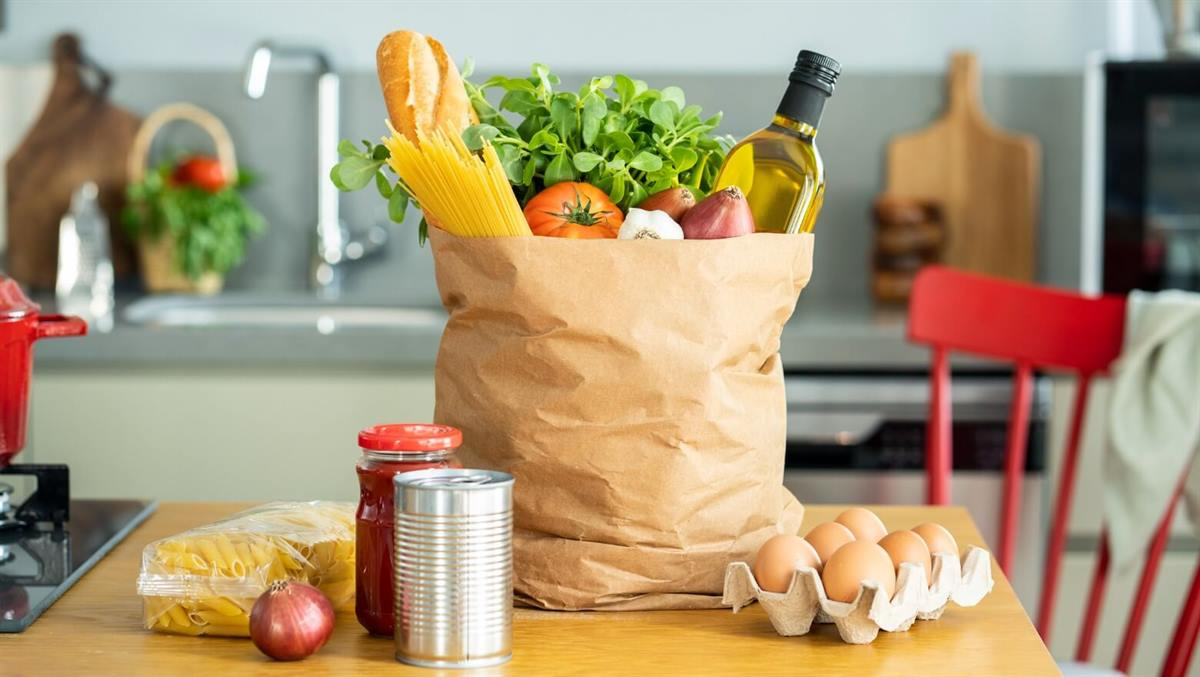
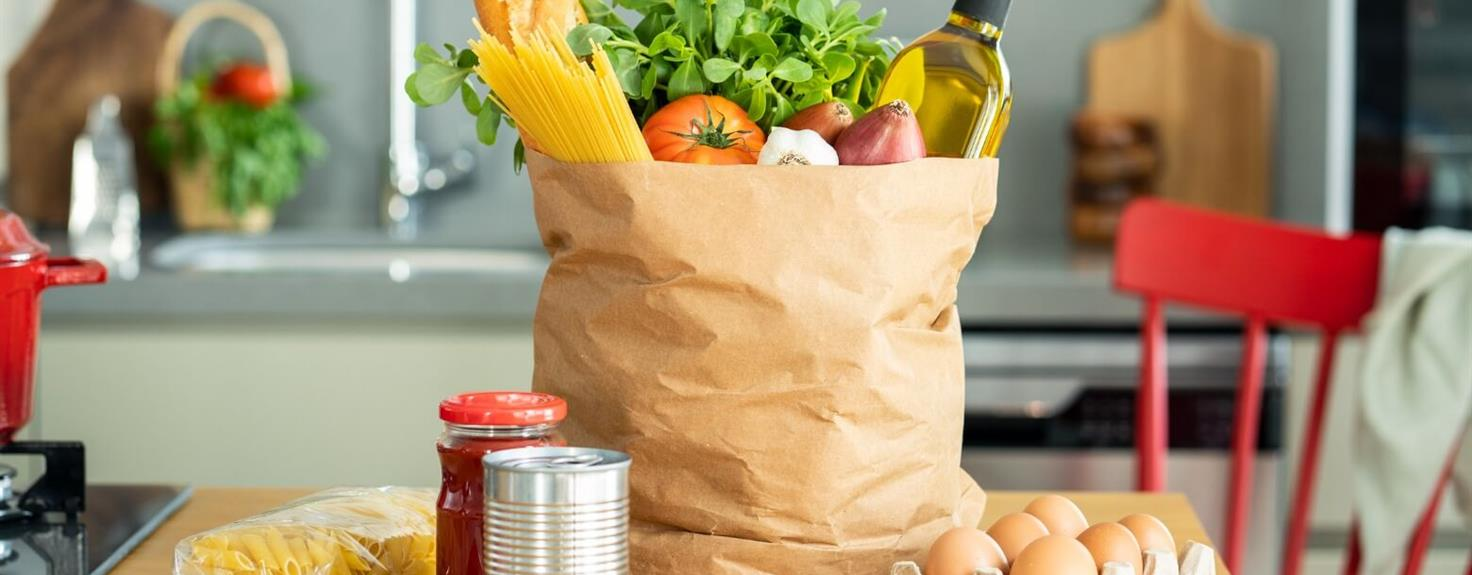
fix(welcome): black browse tiles, and art cropped to the slot it lands in
THE BLACK TILES

20260919000000 set ui_order_index 1..9 on the nine categories it gave art
to, and claimed the column sorts nulls last so those nine would lead. It
does not. The column is ZERO on existing rows, not null, so the curated
nine sorted BEHIND the sixteen untouched ones and the mosaic rendered
bakery-cakes, barbering, birthday-parties and the rest -- none of which had
an image_url. Nine ink-block fallbacks. Nothing errored; the ordering was
simply wrong and the fallback did exactly its job.

Fixed in the data (20260920010000 clears the zeros to 100 and sets a real
1..14) and guaranteed in the frontend, which now sorts categories that HAVE
art ahead of those that do not. Either alone would have worked; relying on
the index alone is what failed.

CROPPED AT SOURCE, NOT BY object-cover

Every slot is landscape -- span 2 is 1.25, span 4 is 2.56, span 6 is 3.48 --
so a portrait cannot be rescued by making tiles taller. The band was 5.35
until now, which no photograph is; a portrait in it kept 12% of its frame.
Tiles are taller (h-72 / h-80) and every file is cropped to its slot's exact
ratio before it is downloaded.

That one change fixes two problems that had a single cause: a 3:2 photo in
the band had 87% of it discarded by CSS, so the bytes went on pixels nobody
saw while the visible strip stretched 1200px of data across 2224. Blurry and
wasteful together. Unsplash's crop=entropy also finds the subject -- the
[…]

diff --git a/src/app/types/occasions.ts b/src/app/types/occasions.ts
@@ -163,10 +163,21 @@ export const OCCASION_TILES: ReadonlyArray<OccasionTile> = [
 /**
  * Art, keyed by kind, cover first. **All thirteen are covered.**
  *
- * A kind with two or more frames breathes: the Conductor fades between them
- * on the shared page clock. A kind with one simply does not move, which is a
- * normal state and needs no apology -- four of them have a second frame and
- * the rest are waiting on art, not on code.
+ * EVERY FILE IS CROPPED AT SOURCE TO THE SHAPE OF THE SLOT IT LANDS IN.
+ * The groupings below are those three shapes, and they line up with the span
+ * this tile's index draws from the mosaic pattern -- see SLOT_ASPECT in
+ * TileMosaic. That is the whole fix for two problems at once:
+ *
+ *   Before, a roughly 3:2 photograph was dropped into a 5.35:1 band and
+ *   `object-cover` threw away 87% of it. The bytes were spent on pixels
+ *   nobody ever saw, and the strip that DID show had ~1200px of real data
+ *   stretched across 2224 -- so it was blurry and wasteful from one cause.
+ *   Cropping at source fixes both, and the band is now 3.48 rather than
+ *   5.35 because the tiles were made taller at the same time.
+ *
+ * A kind with two or more frames breathes; the Conductor fades between them
+ * on the shared page clock at a 30s dwell. One frame simply does not move,
+ * which is a normal state and needs no apology.
  *
  * Four reuse the category photographs, because the occasion and the shelf
  * genuinely share a subject: a Pharmacy Run and the pharmacy shelf are the
@@ -187,31 +198,22 @@ export const OCCASION_TILES: ReadonlyArray<OccasionTile> = [
  * School Prep, and West African ceremonial dress for a Zambian wedding.
  */
 export const OCCASION_ART: Partial<Record<OccasionKind, string[]>> = {
-  // Shared with the category mosaic -- same subject, same photograph.
-  groceries: ['/categories/groceries.jpg', '/categories/groceries-2.jpg'],
-  medical: ['/categories/pharmacy.jpg'],
-  rent: ['/categories/home-appliances.jpg'],
-  holiday: ['/categories/meat-poultry.jpg'],
+  // wide (2.56) -- span 4
+  groceries: ['/categories/groceries.jpg', '/occasions/groceries-2.webp'],
+  medical: ['/categories/pharmacy.webp'],
+  memorial: ['/occasions/funeral.webp', '/occasions/funeral-2.webp'],
+  holiday: ['/categories/meat-poultry.webp'],
+  graduation: ['/occasions/graduation.webp'],
 
-  // From the design scaffolding.
+  // near square (1.25) -- span 2
+  birthday: ['/occasions/birthday.webp'],
+  school_fees: ['/occasions/school-prep.webp', '/occasions/school-prep-2.webp'],
   upkeep: ['/occasions/upkeep.jpg'],
+  new_baby: ['/occasions/new-baby.webp', '/occasions/new-baby-2.webp'],
   anniversary: ['/occasions/anniversary.jpg'],
 
-  // Sourced 2026-09-20.
-  birthday: ['/occasions/birthday.jpg'],
-  school_fees: ['/occasions/school-prep.jpg', '/occasions/school-prep-2.jpg'],
-  new_baby: ['/occasions/new-baby.jpg', '/occasions/new-baby-2.jpg'],
-  wedding: ['/occasions/wedding.jpg'],
-  graduation: ['/occasions/graduation.jpg'],
-
-  // White lilies, then a white chrysanthemum. Was the catering photograph --
-  // a restaurant full of people eating is what the kappa says a funeral BUYS,
-  // and it is exactly the wrong thing to put under the word. The basket is
-  // food; the picture is not.
-  memorial: ['/occasions/funeral.jpg', '/occasions/funeral-2.jpg'],
-
-  // An open-air market stall. The tile says "we will go and find it", and this
-  // is where that happens -- deliberately not a headset or a call centre,
-  // which is the thing this product is promising people it is not.
-  other: ['/occasions/something-else.jpg'],
+  // cinematic band (3.48) -- span 6
+  rent: ['/categories/home-appliances.webp'],
+  wedding: ['/occasions/wedding.webp'],
+  other: ['/occasions/something-else.webp'],
 };

diff --git a/src/app/types/categoryArt.ts b/src/app/types/categoryArt.ts
@@ -16,17 +16,32 @@
 // The merge rule lives in `categoryFrames` below: the database picks the
 // cover, this fills in behind it, and neither can silently replace the other.
 
-/** Slug → frames, cover first. Every file is <= 98KB per the charter. */
+/**
+ * Slug -> frames, cover first. Cropped at source to the slot's shape.
+ *
+ * The first nine are the mosaic's nine, in `ui_order_index` order, and their
+ * shapes match the spans that order draws: wide, narrow, narrow, wide, band,
+ * wide, narrow, narrow, wide. The rest are depth -- art in hand so that
+ * refeaturing a category never produces a black tile.
+ */
 export const CATEGORY_ART: Record<string, string[]> = {
-  groceries: ['/categories/groceries.jpg', '/categories/groceries-2.jpg'],
+  // the nine, in order
+  groceries: ['/categories/groceries.jpg', '/occasions/groceries-2.webp'],
   catering: ['/categories/catering.jpg'],
+  'bakery-cakes': ['/categories/bakery-cakes.webp'],
+  pharmacy: ['/categories/pharmacy.webp'],
+  'home-appliances': ['/categories/home-appliances.webp'],
+  furniture: ['/categories/furniture.webp'],
   womenswear: ['/categories/womenswear.jpg'],
-  furniture: ['/categories/furniture.jpg'],
-  pharmacy: ['/categories/pharmacy.jpg'],
-  'home-appliances': ['/categories/home-appliances.jpg'],
+  flowers: ['/categories/flowers.webp'],
+  'meat-poultry': ['/categories/meat-poultry.webp'],
+
+  // in reserve
   'tools-hardware': ['/categories/tools-hardware.jpg'],
   'laundry-dry-cleaning': ['/categories/laundry.jpg'],
-  'meat-poultry': ['/categories/meat-poultry.jpg'],
+  barbering: ['/categories/barbering.webp'],
+  'gift-hampers': ['/categories/gift-hampers.webp'],
+  'decor-styling': ['/categories/event-decor.webp'],
 };
 
 /**

diff --git a/src/app/components/shared/TileMosaic.tsx b/src/app/components/shared/TileMosaic.tsx
@@ -89,8 +89,27 @@ const SPAN_CLASS: Record<number, string> = {
  * they share a height and only the 6 differs.
  */
 function heightClass(span: number): string {
-  return span === 6 ? 'h-44 md:h-52' : 'h-52 md:h-64';
+  return span === 6 ? 'h-52 md:h-80' : 'h-56 md:h-72';
 }
+
+/**
+ * The shape each slot actually is, at the max-w-6xl container.
+ *
+ * Worth writing down, because it is the number that decides whether a
+ * photograph survives. Column = (1152 - 40 padding - 5x16 gap) / 6 = 172px.
+ *
+ *   span 2   360 x 288  =  1.25   near square
+ *   span 4   736 x 288  =  2.56   wide
+ *   span 6  1112 x 320  =  3.48   a cinematic band
+ *
+ * EVERY SLOT IS LANDSCAPE, including the narrow one -- which is why a
+ * portrait photograph cannot be rescued here by making tiles taller. The
+ * band was 5.35 until 20 Sep and no photograph is that shape; a portrait in
+ * it kept 12% of its frame. Art is now cropped to these ratios AT SOURCE
+ * rather than by object-cover, so no bytes are spent on pixels that are
+ * thrown away and nothing is upscaled. See types/occasions.ts.
+ */
+export const SLOT_ASPECT: Record<number, number> = { 2: 1.25, 4: 2.56, 6: 3.48 };
 
 function titleClass(span: number): string {
   if (span === 6) return 'text-4xl md:text-6xl';

diff --git a/src/app/pages/public/Welcome.tsx b/src/app/pages/public/Welcome.tsx
@@ -98,8 +98,21 @@ export function Welcome() {
   const { setMode } = useStorefrontMode();
   const [videoFailed, setVideoFailed] = useState(false);
   const { categories, loading: categoriesLoading } = useFeaturedCategories();
+  // Art first, THEN the admin's order.
+  //
+  // Belt and braces over ui_order_index, and it exists because relying on
+  // that column alone failed: it defaults to 0, not null, so the nine
+  // curated categories sorted behind the sixteen untouched ones and the
+  // whole mosaic rendered as black fallback blocks. Ordering by "has a
+  // picture" makes a black tile structurally impossible while there is any
+  // art at all -- whatever the indexes happen to say.
   const categoryMosaic = useMemo(
-    () => categories.slice(0, CATEGORY_TILES).map(
+    () => categories
+      .map((c) => ({ c, frames: categoryFrames(c.slug, c.image_url) }))
+      .sort((a, b) => Number(b.frames.length > 0) - Number(a.frames.length > 0))
+      .slice(0, CATEGORY_TILES)
+      .map(({ c }) => c)
+      .map(
       (c): MosaicTile => ({
         id: c.id,
         name: c.name,

diff --git a/docs/plans/two-rails.md b/docs/plans/two-rails.md
@@ -320,37 +320,58 @@ duty here — it is a trust control, not only a style.
 
 ---
 
-## 8. Image provenance
+## 8. Tile art
 
-Two sources, two different licence positions. This matters at launch.
+**Geometry first, because it decides everything else.** At the max-w-6xl
+container a column is 172px, so the slots are:
 
-**Scaffolding art — NOT cleared for production.** The nine category
-photographs and two of the occasion ones came from `scoffolding/`. Of the set
-supplied there, several were rejected outright: one carried a visible iStock
-watermark, and others were adverts for other companies (Indo Zambia Bank,
-Hungry Lion, Infinix, Kellogg's, Jam Solar). That tells you the whole set is
-scraped stock of unknown licence. Fine for development. **Replace before
-launch.**
+| span | size | aspect |
+| --- | --- | --- |
+| 2 | 360 x 288 | **1.25** near square |
+| 4 | 736 x 288 | **2.56** wide |
+| 6 | 1112 x 320 | **3.48** cinematic band |
 
-**Unsplash art — cleared.** Seven occasion photographs were sourced from
-Unsplash on 20 September 2026. The Unsplash Licence permits commercial use
-with no attribution and no share-alike. CC BY-SA images on Wikimedia Commons
-were considered and passed over — including a genuinely apt Zambian one,
-`ZCAS-U Graduation.jpg` — because share-alike is an obligation not worth
-taking on for page furniture.
+**Every slot is landscape, including the narrow one.** A portrait photograph
+cannot be rescued here by making tiles taller, and that is the one thing worth
+remembering. The band was 5.35 until 20 Sep; no photograph is that shape, and
+a portrait in it kept 12% of its frame.
 
-**The rule that governs all of it**, which cost four rejections in one
-afternoon: *never put a photograph under a name it does not show.* A wrong
-picture is worse than no picture, because an empty block is honest and a wrong
-one is a small lie about what we carry. Rejected on inspection: a "gift
-hamper" full of branded Canadian groceries, a tropical beach resort standing in
-for a wedding, two European children for School Prep, and West African
-ceremonial dress for a Zambian wedding.
+**Art is cropped to these ratios AT SOURCE, not by `object-cover`.** Before, a
+3:2 photograph went into the band and CSS discarded 87% of it -- so bytes were
+spent on pixels nobody saw, while the visible strip had 1200px of data
+stretched across 2224. Blurry and wasteful from one cause. Cropping at source
+fixes both, and Unsplash's `crop=entropy` finds the subject: the wedding photo
+went from an unusable sliver to the best tile on the page.
 
-**Every tile image is ≤ 98KB**, inside the charter's 100KB budget. There is no
-`sharp`, PIL or ImageMagick on this machine; resizing and re-encoding is done
-with .NET `System.Drawing` via PowerShell. Note that `/c/Windows/system32/convert`
-is the Windows disk-conversion tool, **not** ImageMagick — never call it.
+**Format.** WebP wherever the source can serve it. At the band's resolution a
+JPEG is 2-3x the bytes, which is why everything looked soft when the budget
+was spent on JPEG. 25 of 27 files are under the charter's 100KB; two busy
+market scenes plateau at ~121KB and are the documented exception, on the same
+footing as the vectors in `Vector.tsx`.
+
+**Licence, and this still matters at launch.**
+
+- **Unsplash (cleared).** Commercial use, no attribution, no share-alike. CC
+  BY-SA on Wikimedia was passed over to avoid share-alike on page furniture.
+- **Scaffolding (NOT cleared).** Five files remain: groceries, catering,
+  womenswear, laundry, tools-hardware, plus upkeep and anniversary. Scraped
+  stock of unknown licence -- that set had an iStock watermark in it. **Replace
+  before launch.** Four others (pharmacy, home-appliances, meat-poultry,
+  furniture) were already replaced, because they were 2.2x-3.3x short of the
+  pixels their slot needs and would have been visibly soft.
+
+**The rule that governs all of it**, which has now cost five rejections:
+*never put a photograph under a name it does not show.* An empty ink block is
+honest; a wrong picture is a small lie about what we carry. Rejected on
+inspection: a "gift hamper" of branded Canadian groceries, a beach resort as a
+wedding, two European children for School Prep, West African dress for a
+Zambian wedding, and an entropy crop of a braai that landed on a dark piece of
+grill hardware with no meat in frame.
+
+**Tooling.** No sharp, PIL or ImageMagick here. Local crops use .NET
+`System.Drawing` via PowerShell -- which cannot read or write WebP, so
+inspect those with the file reader instead of a contact sheet.
+`/c/Windows/system32/convert` is the Windows disk tool, **not** ImageMagick.
 
 ---
 
